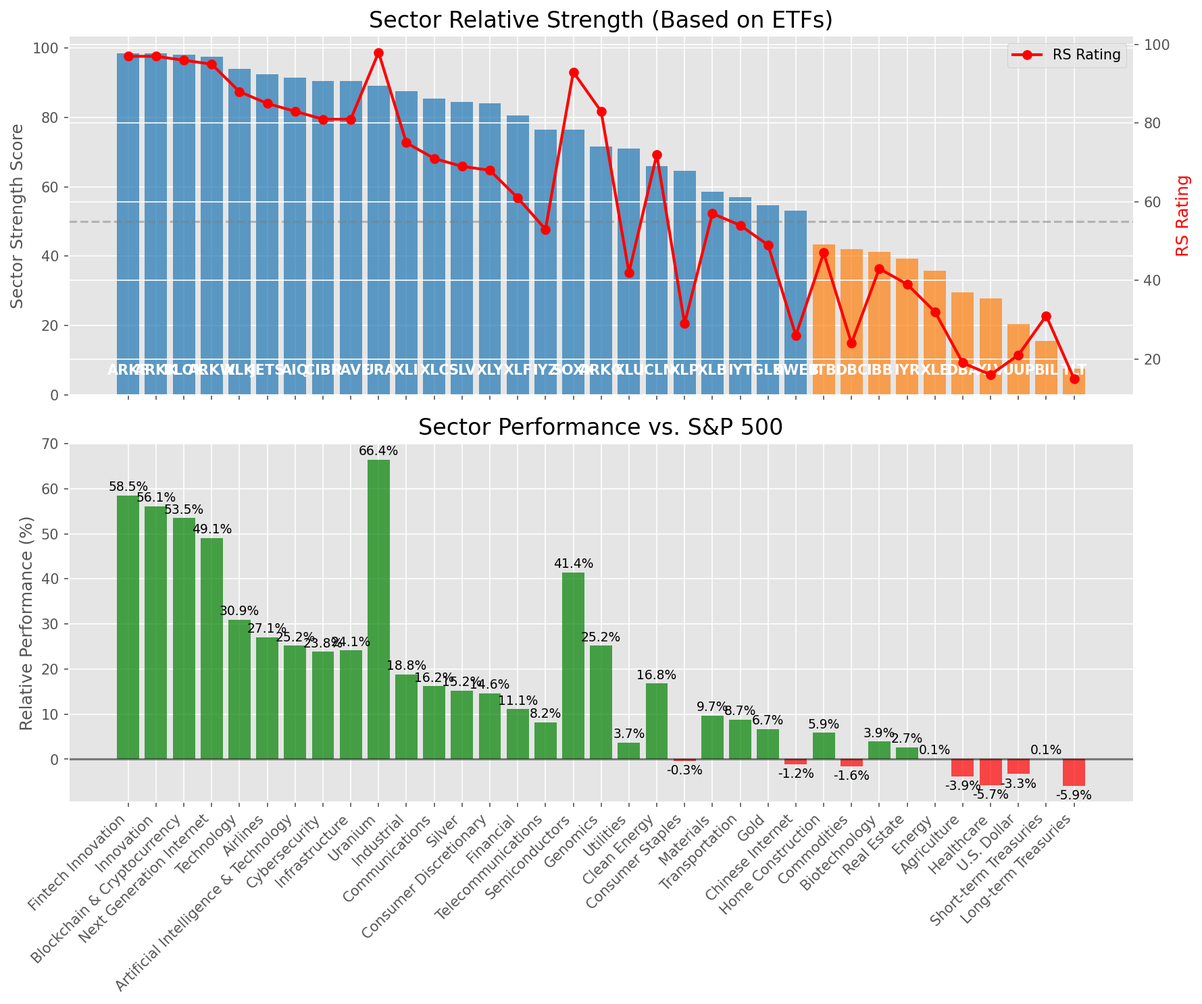
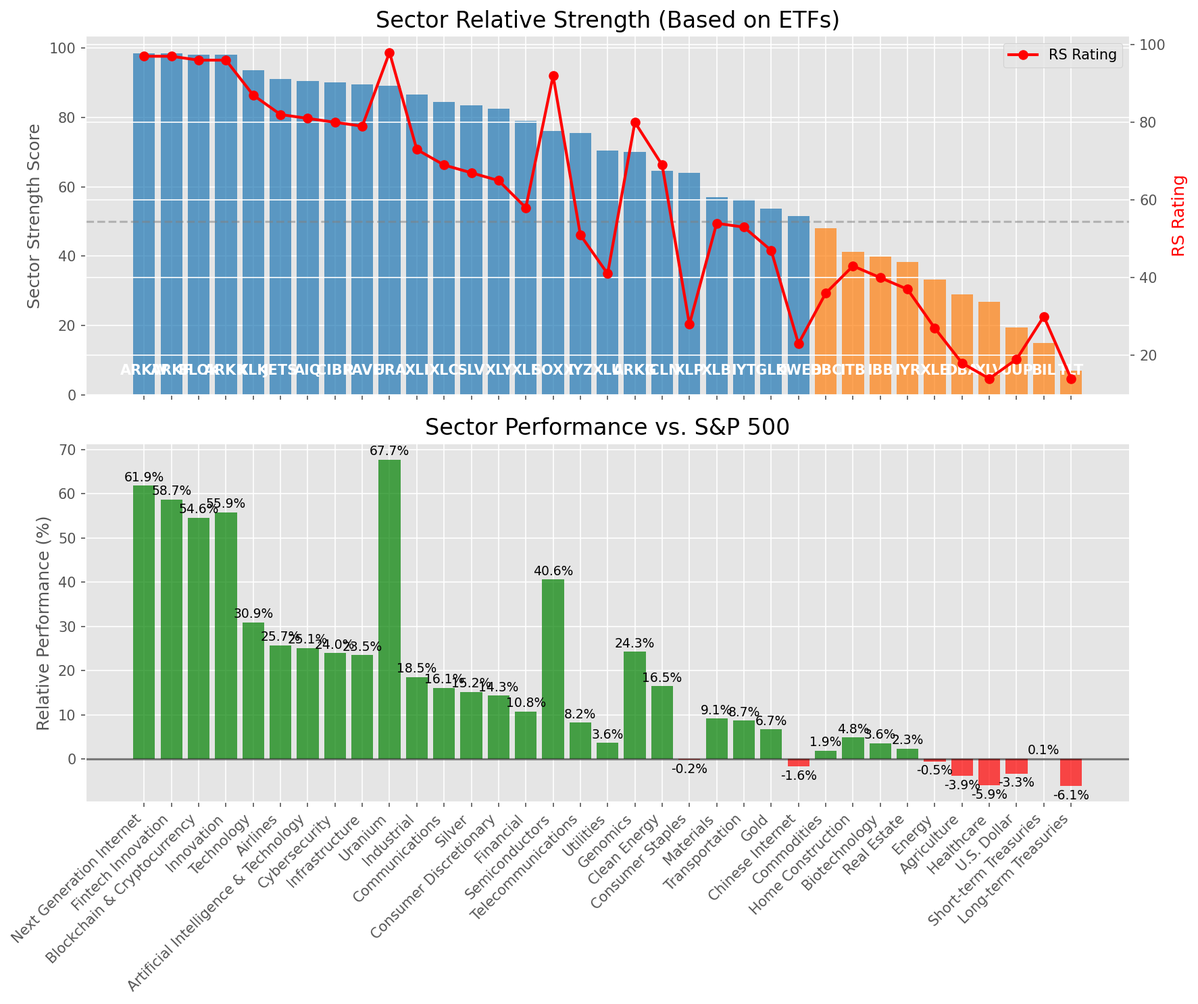
Add market report for 2025-07-07

diff --git a/oneil_relative_strength_report_2025-07-07.md b/oneil_relative_strength_report_2025-07-07.md
@@ -9,11 +9,11 @@
 | Metric | Value |
 |--------|-------|
 | **Market Valuation** | **Overvalued** |
-| **Current Ratio** | 10.24 |
+| **Current Ratio** | 10.22 |
 | **Historical Mean** | 9.40 |
 | **Standard Deviation** | 0.49 |
 | **Z-Score (StdDev from Mean)** | 1.81 |
-| **Total Market Cap** | $306.88 trillion |
+| **Total Market Cap** | $306.17 trillion |
 | **GDP** | $29.96 trillion |
 
 ## **Market Insights**
@@ -49,41 +49,41 @@ Based on William O'Neil's Relative Strength Methodology
 
 | ETF | Strength | RS Rating | Performance | Above Key MAs | Trend | Sector |
 |-----|----------|-----------|-------------|--------------|-------|--------|
-| [ARKF](https://www.tradingview.com/chart/?symbol=ARKF) | 98.5 | 97.0 | 58.54% | 10d ✓, 50d ✓, 200d ✓ | ↗ | Fintech Innovation |
-| [ARKK](https://www.tradingview.com/chart/?symbol=ARKK) | 98.5 | 97.0 | 56.09% | 10d ✓, 50d ✓, 200d ✓ | ↗ | Innovation |
-| [BLOK](https://www.tradingview.com/chart/?symbol=BLOK) | 98.0 | 96.0 | 53.46% | 10d ✓, 50d ✓, 200d ✓ | ↗ | Blockchain & Cryptocurrency |
-| [ARKW](https://www.tradingview.com/chart/?symbol=ARKW) | 97.5 | 95.0 | 49.06% | 10d ✓, 50d ✓, 200d ✓ | ↗ | Next Generation Internet |
-| [XLK](https://www.tradingview.com/chart/?symbol=XLK) | 94.0 | 88.0 | 30.93% | 10d ✓, 50d ✓, 200d ✓ | ↗ | Technology |
-| [JETS](https://www.tradingview.com/chart/?symbol=JETS) | 92.5 | 85.0 | 27.07% | 10d ✓, 50d ✓, 200d ✓ | ↗ | Airlines |
-| [AIQ](https://www.tradingview.com/chart/?symbol=AIQ) | 91.5 | 83.0 | 25.15% | 10d ✓, 50d ✓, 200d ✓ | ↗ | Artificial Intelligence & Technology |
-| [CIBR](https://www.tradingview.com/chart/?symbol=CIBR) | 90.5 | 81.0 | 23.82% | 10d ✓, 50d ✓, 200d ✓ | ↗ | Cybersecurity |
-| [PAVE](https://www.tradingview.com/chart/?symbol=PAVE) | 90.5 | 81.0 | 24.15% | 10d ✓, 50d ✓, 200d ✓ | ↗ | Infrastructure |
-| [URA](https://www.tradingview.com/chart/?symbol=URA) | 89.1 | 98.0 | 66.43% | 10d ✗, 50d ✓, 200d ✓ | ↗ | Uranium |
-| [XLI](https://www.tradingview.com/chart/?symbol=XLI) | 87.5 | 75.0 | 18.84% | 10d ✓, 50d ✓, 200d ✓ | ↗ | Industrial |
-| [XLC](https://www.tradingview.com/chart/?symbol=XLC) | 85.5 | 71.0 | 16.20% | 10d ✓, 50d ✓, 200d ✓ | ↗ | Communications |
-| [SLV](https://www.tradingview.com/chart/?symbol=SLV) | 84.5 | 69.0 | 15.21% | 10d ✓, 50d ✓, 200d ✓ | ↗ | Silver |
-| [XLY](https://www.tradingview.com/chart/?symbol=XLY) | 84.0 | 68.0 | 14.59% | 10d ✓, 50d ✓, 200d ✓ | ↗ | Consumer Discretionary |
-| [XLF](https://www.tradingview.com/chart/?symbol=XLF) | 80.5 | 61.0 | 11.10% | 10d ✓, 50d ✓, 200d ✓ | ↗ | Financial |
-| [IYZ](https://www.tradingview.com/chart/?symbol=IYZ) | 76.5 | 53.0 | 8.22% | 10d ✓, 50d ✓, 200d ✓ | ↗ | Telecommunications |
-| [SOXX](https://www.tradingview.com/chart/?symbol=SOXX) | 76.5 | 93.0 | 41.44% | 10d ✓, 50d ✓, 200d ✓ | ↘ | Semiconductors |
-| [ARKG](https://www.tradingview.com/chart/?symbol=ARKG) | 71.5 | 83.0 | 25.15% | 10d ✓, 50d ✓, 200d ✓ | ↘ | Genomics |
-| [XLU](https://www.tradingview.com/chart/?symbol=XLU) | 71.0 | 42.0 | 3.70% | 10d ✓, 50d ✓, 200d ✓ | ↗ | Utilities |
-| [ICLN](https://www.tradingview.com/chart/?symbol=ICLN) | 66.0 | 72.0 | 16.81% | 10d ✓, 50d ✓, 200d ✓ | ↘ | Clean Energy |
-| [XLP](https://www.tradingview.com/chart/?symbol=XLP) | 64.5 | 29.0 | -0.34% | 10d ✓, 50d ✓, 200d ✓ | ↗ | Consumer Staples |
-| [XLB](https://www.tradingview.com/chart/?symbol=XLB) | 58.5 | 57.0 | 9.68% | 10d ✓, 50d ✓, 200d ✓ | ↘ | Materials |
-| [IYT](https://www.tradingview.com/chart/?symbol=IYT) | 57.0 | 54.0 | 8.74% | 10d ✓, 50d ✓, 200d ✓ | ↘ | Transportation |
-| [GLD](https://www.tradingview.com/chart/?symbol=GLD) | 54.7 | 49.0 | 6.71% | 10d ✗, 50d ✗, 200d ✓ | ↗ | Gold |
-| [KWEB](https://www.tradingview.com/chart/?symbol=KWEB) | 53.1 | 26.0 | -1.17% | 10d ✗, 50d ✓, 200d ✓ | ↗ | Chinese Internet |
-| [ITB](https://www.tradingview.com/chart/?symbol=ITB) | 43.3 | 47.0 | 5.85% | 10d ✓, 50d ✓, 200d ✗ | ↘ | Home Construction |
-| [DBC](https://www.tradingview.com/chart/?symbol=DBC) | 42.0 | 24.0 | -1.63% | 10d ✓, 50d ✓, 200d ✓ | ↘ | Commodities |
-| [IBB](https://www.tradingview.com/chart/?symbol=IBB) | 41.3 | 43.0 | 3.92% | 10d ✓, 50d ✓, 200d ✗ | ↘ | Biotechnology |
-| [IYR](https://www.tradingview.com/chart/?symbol=IYR) | 39.3 | 39.0 | 2.68% | 10d ✓, 50d ✓, 200d ✗ | ↘ | Real Estate |
-| [XLE](https://www.tradingview.com/chart/?symbol=XLE) | 35.8 | 32.0 | 0.14% | 10d ✓, 50d ✓, 200d ✗ | ↘ | Energy |
-| [DBA](https://www.tradingview.com/chart/?symbol=DBA) | 29.5 | 19.0 | -3.86% | 10d ✗, 50d ✗, 200d ✗ | ↗ | Agriculture |
-| [XLV](https://www.tradingview.com/chart/?symbol=XLV) | 27.8 | 16.0 | -5.75% | 10d ✓, 50d ✓, 200d ✗ | ↘ | Healthcare |
-| [UUP](https://www.tradingview.com/chart/?symbol=UUP) | 20.4 | 21.0 | -3.29% | 10d ✓, 50d ✗, 200d ✗ | ↘ | U.S. Dollar |
-| [BIL](https://www.tradingview.com/chart/?symbol=BIL) | 15.5 | 31.0 | 0.05% | 10d ✗, 50d ✗, 200d ✗ | ↘ | Short-term Treasuries |
-| [TLT](https://www.tradingview.com/chart/?symbol=TLT) | 7.5 | 15.0 | -5.93% | 10d ✗, 50d ✗, 200d ✗ | ↘ | Long-term Treasuries |
+| [ARKW](https://www.tradingview.com/chart/?symbol=ARKW) | 98.5 | 97.0 | 61.89% | 10d ✓, 50d ✓, 200d ✓ | ↗ | Next Generation Internet |
+| [ARKF](https://www.tradingview.com/chart/?symbol=ARKF) | 98.5 | 97.0 | 58.72% | 10d ✓, 50d ✓, 200d ✓ | ↗ | Fintech Innovation |
+| [BLOK](https://www.tradingview.com/chart/?symbol=BLOK) | 98.0 | 96.0 | 54.61% | 10d ✓, 50d ✓, 200d ✓ | ↗ | Blockchain & Cryptocurrency |
+| [ARKK](https://www.tradingview.com/chart/?symbol=ARKK) | 98.0 | 96.0 | 55.85% | 10d ✓, 50d ✓, 200d ✓ | ↗ | Innovation |
+| [XLK](https://www.tradingview.com/chart/?symbol=XLK) | 93.5 | 87.0 | 30.93% | 10d ✓, 50d ✓, 200d ✓ | ↗ | Technology |
+| [JETS](https://www.tradingview.com/chart/?symbol=JETS) | 91.0 | 82.0 | 25.73% | 10d ✓, 50d ✓, 200d ✓ | ↗ | Airlines |
+| [AIQ](https://www.tradingview.com/chart/?symbol=AIQ) | 90.5 | 81.0 | 25.14% | 10d ✓, 50d ✓, 200d ✓ | ↗ | Artificial Intelligence & Technology |
+| [CIBR](https://www.tradingview.com/chart/?symbol=CIBR) | 90.0 | 80.0 | 24.01% | 10d ✓, 50d ✓, 200d ✓ | ↗ | Cybersecurity |
+| [PAVE](https://www.tradingview.com/chart/?symbol=PAVE) | 89.5 | 79.0 | 23.54% | 10d ✓, 50d ✓, 200d ✓ | ↗ | Infrastructure |
+| [URA](https://www.tradingview.com/chart/?symbol=URA) | 89.1 | 98.0 | 67.72% | 10d ✗, 50d ✓, 200d ✓ | ↗ | Uranium |
+| [XLI](https://www.tradingview.com/chart/?symbol=XLI) | 86.5 | 73.0 | 18.54% | 10d ✓, 50d ✓, 200d ✓ | ↗ | Industrial |
+| [XLC](https://www.tradingview.com/chart/?symbol=XLC) | 84.5 | 69.0 | 16.14% | 10d ✓, 50d ✓, 200d ✓ | ↗ | Communications |
+| [SLV](https://www.tradingview.com/chart/?symbol=SLV) | 83.5 | 67.0 | 15.16% | 10d ✓, 50d ✓, 200d ✓ | ↗ | Silver |
+| [XLY](https://www.tradingview.com/chart/?symbol=XLY) | 82.5 | 65.0 | 14.32% | 10d ✓, 50d ✓, 200d ✓ | ↗ | Consumer Discretionary |
+| [XLF](https://www.tradingview.com/chart/?symbol=XLF) | 79.0 | 58.0 | 10.79% | 10d ✓, 50d ✓, 200d ✓ | ↗ | Financial |
+| [SOXX](https://www.tradingview.com/chart/?symbol=SOXX) | 76.0 | 92.0 | 40.61% | 10d ✓, 50d ✓, 200d ✓ | ↘ | Semiconductors |
+| [IYZ](https://www.tradingview.com/chart/?symbol=IYZ) | 75.5 | 51.0 | 8.22% | 10d ✓, 50d ✓, 200d ✓ | ↗ | Telecommunications |
+| [XLU](https://www.tradingview.com/chart/?symbol=XLU) | 70.5 | 41.0 | 3.64% | 10d ✓, 50d ✓, 200d ✓ | ↗ | Utilities |
+| [ARKG](https://www.tradingview.com/chart/?symbol=ARKG) | 70.0 | 80.0 | 24.29% | 10d ✓, 50d ✓, 200d ✓ | ↘ | Genomics |
+| [ICLN](https://www.tradingview.com/chart/?symbol=ICLN) | 64.5 | 69.0 | 16.47% | 10d ✓, 50d ✓, 200d ✓ | ↘ | Clean Energy |
+| [XLP](https://www.tradingview.com/chart/?symbol=XLP) | 64.0 | 28.0 | -0.20% | 10d ✓, 50d ✓, 200d ✓ | ↗ | Consumer Staples |
+| [XLB](https://www.tradingview.com/chart/?symbol=XLB) | 57.0 | 54.0 | 9.15% | 10d ✓, 50d ✓, 200d ✓ | ↘ | Materials |
+| [IYT](https://www.tradingview.com/chart/?symbol=IYT) | 56.5 | 53.0 | 8.74% | 10d ✓, 50d ✓, 200d ✓ | ↘ | Transportation |
+| [GLD](https://www.tradingview.com/chart/?symbol=GLD) | 53.7 | 47.0 | 6.74% | 10d ✗, 50d ✗, 200d ✓ | ↗ | Gold |
+| [KWEB](https://www.tradingview.com/chart/?symbol=KWEB) | 51.6 | 23.0 | -1.62% | 10d ✗, 50d ✓, 200d ✓ | ↗ | Chinese Internet |
+| [DBC](https://www.tradingview.com/chart/?symbol=DBC) | 48.0 | 36.0 | 1.89% | 10d ✓, 50d ✓, 200d ✓ | ↘ | Commodities |
+| [ITB](https://www.tradingview.com/chart/?symbol=ITB) | 41.3 | 43.0 | 4.85% | 10d ✓, 50d ✓, 200d ✗ | ↘ | Home Construction |
+| [IBB](https://www.tradingview.com/chart/?symbol=IBB) | 39.8 | 40.0 | 3.55% | 10d ✓, 50d ✓, 200d ✗ | ↘ | Biotechnology |
+| [IYR](https://www.tradingview.com/chart/?symbol=IYR) | 38.3 | 37.0 | 2.34% | 10d ✓, 50d ✓, 200d ✗ | ↘ | Real Estate |
+| [XLE](https://www.tradingview.com/chart/?symbol=XLE) | 33.3 | 27.0 | -0.51% | 10d ✓, 50d ✓, 200d ✗ | ↘ | Energy |
+| [DBA](https://www.tradingview.com/chart/?symbol=DBA) | 29.0 | 18.0 | -3.86% | 10d ✗, 50d ✗, 200d ✗ | ↗ | Agriculture |
+| [XLV](https://www.tradingview.com/chart/?symbol=XLV) | 26.8 | 14.0 | -5.93% | 10d ✓, 50d ✓, 200d ✗ | ↘ | Healthcare |
+| [UUP](https://www.tradingview.com/chart/?symbol=UUP) | 19.4 | 19.0 | -3.26% | 10d ✓, 50d ✗, 200d ✗ | ↘ | U.S. Dollar |
+| [BIL](https://www.tradingview.com/chart/?symbol=BIL) | 15.0 | 30.0 | 0.05% | 10d ✗, 50d ✗, 200d ✗ | ↘ | Short-term Treasuries |
+| [TLT](https://www.tradingview.com/chart/?symbol=TLT) | 7.0 | 14.0 | -6.08% | 10d ✗, 50d ✗, 200d ✗ | ↘ | Long-term Treasuries |
 
 ### **Sector ETF Performance Interpretation**
 
@@ -98,139 +98,153 @@ This table shows the relative strength metrics for different market sectors base
 
 ### **Current Sector Leadership**
 
-The current market leadership is coming from the following sectors: **Fintech Innovation, Innovation, Blockchain & Cryptocurrency**.
+The current market leadership is coming from the following sectors: **Next Generation Internet, Fintech Innovation, Blockchain & Cryptocurrency**.
 
-The **Fintech Innovation** sector (represented by **ARKF**) is showing particularly strong relative strength with an RS rating of 97.0 and performance of 58.54% vs. the S&P 500. This sector is trading above its 10-day, 50-day, 200-day moving average(s). Investors should consider focusing on high RS stocks within these leading sectors for potential outperformance.
+The **Next Generation Internet** sector (represented by **ARKW**) is showing particularly strong relative strength with an RS rating of 97.0 and performance of 61.89% vs. the S&P 500. This sector is trading above its 10-day, 50-day, 200-day moving average(s). Investors should consider focusing on high RS stocks within these leading sectors for potential outperformance.
 
 ---
 
 ## **Buy Recommendations**
 
-The following 56 stocks show exceptional relative strength:
+The following 51 stocks show exceptional relative strength:
 
 | RS Rating | Buy Score | Current Price | Chart | Name | Ticker |
 |-----------|-----------|---------------|-------|------|--------|
-| 100 | 100 | $155.89 | [Chart](https://www.tradingview.com/chart/?symbol=CLS) | Celestica, Inc. | CLS |
-| 100 | 100 | $94.20 | [Chart](https://www.tradingview.com/chart/?symbol=HOOD) | Robinhood Markets, Inc. Class A Common Stock | HOOD |
-| 100 | 100 | $280.51 | [Chart](https://www.tradingview.com/chart/?symbol=DAVE) | Dave Inc. Class A Common Stock | DAVE |
-| 100 | 100 | $174.40 | [Chart](https://www.tradingview.com/chart/?symbol=SEZL) | Sezzle Inc. Common Stock | SEZL |
-| 99 | 100 | $192.30 | [Chart](https://www.tradingview.com/chart/?symbol=NET) | Cloudflare, Inc. Class A common stock, par value $0.001 per share | NET |
-| 99 | 100 | $333.64 | [Chart](https://www.tradingview.com/chart/?symbol=RCL) | Royal Caribbean Group | RCL |
-| 99 | 100 | $105.94 | [Chart](https://www.tradingview.com/chart/?symbol=RBLX) | Roblox Corporation | RBLX |
+| 100 | 100 | $156.69 | [Chart](https://www.tradingview.com/chart/?symbol=CLS) | Celestica, Inc. | CLS |
+| 100 | 100 | $181.28 | [Chart](https://www.tradingview.com/chart/?symbol=LEU) | Centrus Energy Corp. | LEU |
+| 100 | 100 | $94.19 | [Chart](https://www.tradingview.com/chart/?symbol=HOOD) | Robinhood Markets, Inc. Class A Common Stock | HOOD |
+| 100 | 100 | $279.43 | [Chart](https://www.tradingview.com/chart/?symbol=DAVE) | Dave Inc. Class A Common Stock | DAVE |
+| 100 | 100 | $177.49 | [Chart](https://www.tradingview.com/chart/?symbol=SEZL) | Sezzle Inc. Common Stock | SEZL |
+| 99 | 100 | $76.01 | [Chart](https://www.tradingview.com/chart/?symbol=ODD) | ODDITY Tech Ltd. Class A Ordinary Shares | ODD |
+| 99 | 100 | $193.04 | [Chart](https://www.tradingview.com/chart/?symbol=NET) | Cloudflare, Inc. Class A common stock, par value $0.001 per share | NET |
+| 99 | 100 | $106.70 | [Chart](https://www.tradingview.com/chart/?symbol=RBLX) | Roblox Corporation | RBLX |
 | 99 | 100 | $149.20 | [Chart](https://www.tradingview.com/chart/?symbol=LMB) | Limbach Holdings, Inc Common Stock | LMB |
-| 99 | 100 | $36.65 | [Chart](https://www.tradingview.com/chart/?symbol=GRPN) | Groupon, Inc.Common Stock | GRPN |
-| 99 | 100 | $352.57 | [Chart](https://www.tradingview.com/chart/?symbol=CVNA) | Carvana Co. | CVNA |
-| 98 | 100 | $521.84 | [Chart](https://www.tradingview.com/chart/?symbol=GEV) | GE Vernova Inc. | GEV |
-| 97 | 100 | $71.62 | [Chart](https://www.tradingview.com/chart/?symbol=URBN) | Urban Outfitters Inc | URBN |
-| 97 | 100 | $75.96 | [Chart](https://www.tradingview.com/chart/?symbol=ODD) | ODDITY Tech Ltd. Class A Ordinary Shares | ODD |
-| 97 | 100 | $313.71 | [Chart](https://www.tradingview.com/chart/?symbol=ZS) | Zscaler, Inc. Common Stock | ZS |
-| 97 | 100 | $43.92 | [Chart](https://www.tradingview.com/chart/?symbol=FARO) | Faro Technologies Inc | FARO |
-| 97 | 100 | $50.40 | [Chart](https://www.tradingview.com/chart/?symbol=ARKF) | ARK Fintech Innovation ETF | ARKF |
-| 96 | 100 | $50.25 | [Chart](https://www.tradingview.com/chart/?symbol=REVG) | REV Group, Inc. | REVG |
-| 96 | 100 | $89.12 | [Chart](https://www.tradingview.com/chart/?symbol=RBRK) | Rubrik, Inc. | RBRK |
-| 96 | 100 | $38.28 | [Chart](https://www.tradingview.com/chart/?symbol=AS) | Amer Sports, Inc. | AS |
-| 95 | 100 | $45.19 | [Chart](https://www.tradingview.com/chart/?symbol=KTOS) | Kratos Defense & Security Solutions, Inc. | KTOS |
-| 95 | 100 | $48.77 | [Chart](https://www.tradingview.com/chart/?symbol=INOD) | Innodata Inc. | INOD |
-| 94 | 100 | $503.13 | [Chart](https://www.tradingview.com/chart/?symbol=CRWD) | CrowdStrike Holdings, Inc. Class A Common Stock | CRWD |
-| 94 | 100 | $181.85 | [Chart](https://www.tradingview.com/chart/?symbol=HWM) | Howmet Aerospace Inc. | HWM |
-| 94 | 100 | $58.19 | [Chart](https://www.tradingview.com/chart/?symbol=IBKR) | Interactive Brokers Group, Inc. Class A Common Stock | IBKR |
-| 93 | 100 | $17.76 | [Chart](https://www.tradingview.com/chart/?symbol=DAN) | Dana Incorporated | DAN |
-| 93 | 100 | $795.48 | [Chart](https://www.tradingview.com/chart/?symbol=AXON) | Axon Enterprise, Inc. Common Stock | AXON |
-| 93 | 100 | $46.62 | [Chart](https://www.tradingview.com/chart/?symbol=DRS) | Leonardo DRS, Inc. Common Stock | DRS |
-| 93 | 100 | $21.37 | [Chart](https://www.tradingview.com/chart/?symbol=MAG) | MAG Silver Corp. | MAG |
-| 93 | 100 | $43.60 | [Chart](https://www.tradingview.com/chart/?symbol=KD) | Kyndryl Holdings, Inc. | KD |
-| 92 | 100 | $91.31 | [Chart](https://www.tradingview.com/chart/?symbol=TPR) | Tapestry, Inc. Common Stock | TPR |
-| 90 | 100 | $28.30 | [Chart](https://www.tradingview.com/chart/?symbol=SRAD) | Sportradar Group AG Class A Ordinary Shares | SRAD |
-| 90 | 100 | $52.89 | [Chart](https://www.tradingview.com/chart/?symbol=BBW) | Build-A-Bear Workshop, Inc. | BBW |
-| 89 | 100 | $30.60 | [Chart](https://www.tradingview.com/chart/?symbol=HODL) | VanEck Bitcoin ETF | HODL |
-| 89 | 99 | $61.46 | [Chart](https://www.tradingview.com/chart/?symbol=IBIT) | iShares Bitcoin Trust ETF | IBIT |
-| 89 | 99 | $102.34 | [Chart](https://www.tradingview.com/chart/?symbol=SANM) | Sanmina  Corp | SANM |
-| 89 | 99 | $252.34 | [Chart](https://www.tradingview.com/chart/?symbol=WWD) | Woodward, Inc. | WWD |
-| 86 | 99 | $18.32 | [Chart](https://www.tradingview.com/chart/?symbol=BCS) | Barclays PLC | BCS |
-| 89 | 98 | $66.26 | [Chart](https://www.tradingview.com/chart/?symbol=RYTM) | Rhythm Pharmaceuticals, Inc. Common Stock | RYTM |
-| 85 | 96 | $188.00 | [Chart](https://www.tradingview.com/chart/?symbol=ITA) | iShares U.S. Aerospace & Defense ETF | ITA |
-| 85 | 96 | $25.80 | [Chart](https://www.tradingview.com/chart/?symbol=KAR) | OPENLANE, Inc | KAR |
-| 85 | 95 | $46.96 | [Chart](https://www.tradingview.com/chart/?symbol=AU) | AngloGold Ashanti plc | AU |
-| 83 | 95 | $59.65 | [Chart](https://www.tradingview.com/chart/?symbol=SHLD) | Global X Defense Tech ETF | SHLD |
-| 84 | 94 | $112.08 | [Chart](https://www.tradingview.com/chart/?symbol=SPMO) | Invesco S&P 500 Momentum ETF | SPMO |
-| 84 | 94 | $82.98 | [Chart](https://www.tradingview.com/chart/?symbol=WFC) | Wells Fargo & Co. | WFC |
-| 83 | 94 | $71.71 | [Chart](https://www.tradingview.com/chart/?symbol=ULS) | UL Solutions Inc. | ULS |
-| 83 | 94 | $284.29 | [Chart](https://www.tradingview.com/chart/?symbol=VEEV) | Veeva Systems Inc. | VEEV |
-| 83 | 94 | $77.14 | [Chart](https://www.tradingview.com/chart/?symbol=CTVA) | Corteva, Inc. Common Stock | CTVA |
-| 84 | 93 | $48.86 | [Chart](https://www.tradingview.com/chart/?symbol=SIL) | Global X Silver Miners ETF (NEW) | SIL |
-| 84 | 93 | $123.33 | [Chart](https://www.tradingview.com/chart/?symbol=FUTU) | Futu Holdings Limited American Depositary Shares | FUTU |
-| 82 | 93 | $132.85 | [Chart](https://www.tradingview.com/chart/?symbol=NTES) | NetEase, inc. | NTES |
-| 81 | 93 | $75.86 | [Chart](https://www.tradingview.com/chart/?symbol=CIBR) | First Trust Exchange-Traded Fund II First Trust NASDAQ Cybersecurity ETF | CIBR |
-| 81 | 93 | $403.87 | [Chart](https://www.tradingview.com/chart/?symbol=CYBR) | CyberArk Software Ltd. | CYBR |
-| 82 | 92 | $18.86 | [Chart](https://www.tradingview.com/chart/?symbol=AVPT) | AvePoint, Inc. Class A Common Stock | AVPT |
-| 82 | 92 | $24.17 | [Chart](https://www.tradingview.com/chart/?symbol=TFPM) | Triple Flag Precious Metals Corp. | TFPM |
-| 81 | 91 | $35.13 | [Chart](https://www.tradingview.com/chart/?symbol=ATAT) | Atour Lifestyle Holdings Limited American Depositary Shares | ATAT |
-| 80 | 90 | $252.69 | [Chart](https://www.tradingview.com/chart/?symbol=WTS) | Watts Water Technologies, Inc. Class A | WTS |
+| 99 | 100 | $36.89 | [Chart](https://www.tradingview.com/chart/?symbol=GRPN) | Groupon, Inc.Common Stock | GRPN |
+| 99 | 100 | $351.38 | [Chart](https://www.tradingview.com/chart/?symbol=CVNA) | Carvana Co. | CVNA |
+| 98 | 100 | $525.32 | [Chart](https://www.tradingview.com/chart/?symbol=GEV) | GE Vernova Inc. | GEV |
+| 98 | 100 | $333.00 | [Chart](https://www.tradingview.com/chart/?symbol=RCL) | Royal Caribbean Group | RCL |
+| 97 | 100 | $72.04 | [Chart](https://www.tradingview.com/chart/?symbol=URBN) | Urban Outfitters Inc | URBN |
+| 97 | 100 | $315.07 | [Chart](https://www.tradingview.com/chart/?symbol=ZS) | Zscaler, Inc. Common Stock | ZS |
+| 97 | 100 | $50.46 | [Chart](https://www.tradingview.com/chart/?symbol=ARKF) | ARK Fintech Innovation ETF | ARKF |
+| 96 | 100 | $43.96 | [Chart](https://www.tradingview.com/chart/?symbol=FARO) | Faro Technologies Inc | FARO |
+| 96 | 100 | $90.50 | [Chart](https://www.tradingview.com/chart/?symbol=RBRK) | Rubrik, Inc. | RBRK |
+| 96 | 100 | $38.57 | [Chart](https://www.tradingview.com/chart/?symbol=AS) | Amer Sports, Inc. | AS |
+| 95 | 100 | $45.45 | [Chart](https://www.tradingview.com/chart/?symbol=KTOS) | Kratos Defense & Security Solutions, Inc. | KTOS |
+| 95 | 100 | $49.57 | [Chart](https://www.tradingview.com/chart/?symbol=INOD) | Innodata Inc. | INOD |
+| 94 | 100 | $503.76 | [Chart](https://www.tradingview.com/chart/?symbol=CRWD) | CrowdStrike Holdings, Inc. Class A Common Stock | CRWD |
+| 94 | 100 | $181.01 | [Chart](https://www.tradingview.com/chart/?symbol=HWM) | Howmet Aerospace Inc. | HWM |
+| 94 | 100 | $253.18 | [Chart](https://www.tradingview.com/chart/?symbol=WWD) | Woodward, Inc. | WWD |
+| 94 | 100 | $58.37 | [Chart](https://www.tradingview.com/chart/?symbol=IBKR) | Interactive Brokers Group, Inc. Class A Common Stock | IBKR |
+| 93 | 100 | $46.68 | [Chart](https://www.tradingview.com/chart/?symbol=DRS) | Leonardo DRS, Inc. Common Stock | DRS |
+| 92 | 100 | $17.55 | [Chart](https://www.tradingview.com/chart/?symbol=DAN) | Dana Incorporated | DAN |
+| 92 | 100 | $21.45 | [Chart](https://www.tradingview.com/chart/?symbol=MAG) | MAG Silver Corp. | MAG |
+| 92 | 100 | $91.62 | [Chart](https://www.tradingview.com/chart/?symbol=TPR) | Tapestry, Inc. Common Stock | TPR |
+| 91 | 100 | $43.29 | [Chart](https://www.tradingview.com/chart/?symbol=KD) | Kyndryl Holdings, Inc. | KD |
+| 90 | 100 | $25.70 | [Chart](https://www.tradingview.com/chart/?symbol=KAR) | OPENLANE, Inc | KAR |
+| 89 | 100 | $28.23 | [Chart](https://www.tradingview.com/chart/?symbol=SRAD) | Sportradar Group AG Class A Ordinary Shares | SRAD |
+| 89 | 99 | $52.89 | [Chart](https://www.tradingview.com/chart/?symbol=BBW) | Build-A-Bear Workshop, Inc. | BBW |
+| 88 | 99 | $61.68 | [Chart](https://www.tradingview.com/chart/?symbol=IBIT) | iShares Bitcoin Trust ETF | IBIT |
+| 88 | 99 | $30.69 | [Chart](https://www.tradingview.com/chart/?symbol=HODL) | VanEck Bitcoin ETF | HODL |
+| 89 | 98 | $66.42 | [Chart](https://www.tradingview.com/chart/?symbol=RYTM) | Rhythm Pharmaceuticals, Inc. Common Stock | RYTM |
+| 84 | 97 | $18.31 | [Chart](https://www.tradingview.com/chart/?symbol=BCS) | Barclays PLC | BCS |
+| 84 | 97 | $66.26 | [Chart](https://www.tradingview.com/chart/?symbol=CHEF) | The Chef's Warehouse Inc | CHEF |
+| 83 | 96 | $29.87 | [Chart](https://www.tradingview.com/chart/?symbol=CAE) | CAE INC | CAE |
+| 84 | 95 | $187.96 | [Chart](https://www.tradingview.com/chart/?symbol=ITA) | iShares U.S. Aerospace & Defense ETF | ITA |
+| 84 | 95 | $284.04 | [Chart](https://www.tradingview.com/chart/?symbol=VEEV) | Veeva Systems Inc. | VEEV |
+| 84 | 95 | $133.65 | [Chart](https://www.tradingview.com/chart/?symbol=NTES) | NetEase, inc. | NTES |
+| 83 | 95 | $59.82 | [Chart](https://www.tradingview.com/chart/?symbol=SHLD) | Global X Defense Tech ETF | SHLD |
+| 84 | 94 | $47.16 | [Chart](https://www.tradingview.com/chart/?symbol=AU) | AngloGold Ashanti plc | AU |
+| 84 | 93 | $49.20 | [Chart](https://www.tradingview.com/chart/?symbol=SIL) | Global X Silver Miners ETF (NEW) | SIL |
+| 84 | 93 | $124.09 | [Chart](https://www.tradingview.com/chart/?symbol=FUTU) | Futu Holdings Limited American Depositary Shares | FUTU |
+| 83 | 93 | $112.08 | [Chart](https://www.tradingview.com/chart/?symbol=SPMO) | Invesco S&P 500 Momentum ETF | SPMO |
+| 82 | 93 | $76.91 | [Chart](https://www.tradingview.com/chart/?symbol=CTVA) | Corteva, Inc. Common Stock | CTVA |
+| 82 | 92 | $82.57 | [Chart](https://www.tradingview.com/chart/?symbol=WFC) | Wells Fargo & Co. | WFC |
+| 80 | 92 | $75.98 | [Chart](https://www.tradingview.com/chart/?symbol=CIBR) | First Trust Exchange-Traded Fund II First Trust NASDAQ Cybersecurity ETF | CIBR |
+| 80 | 92 | $407.66 | [Chart](https://www.tradingview.com/chart/?symbol=CYBR) | CyberArk Software Ltd. | CYBR |
 
 ---
 
 
 ## **Sell Recommendations**
 
-The following 55 stocks show deteriorating relative strength:
+The following 74 stocks show deteriorating relative strength:
 
 | RS Rating | Sell Score | Current Price | Chart | Name | Ticker |
 |-----------|------------|---------------|-------|------|--------|
 | 1 | 100 | $10.09 | [Chart](https://www.tradingview.com/chart/?symbol=HIBS) | Direxion Daily S&P 500 High Beta Bear 3X Shares | HIBS |
-| 1 | 100 | $14.37 | [Chart](https://www.tradingview.com/chart/?symbol=NVDS) | Investment Managers Series Trust II Tradr 1.5X Short NVDA Daily ETF | NVDS |
-| 1 | 100 | $25.99 | [Chart](https://www.tradingview.com/chart/?symbol=TECS) | Direxion Daily Technology Bear 3x Shares | TECS |
-| 1 | 100 | $25.26 | [Chart](https://www.tradingview.com/chart/?symbol=QID) | ProShares UltraShort QQQ | QID |
-| 2 | 100 | $16.43 | [Chart](https://www.tradingview.com/chart/?symbol=SDS) | ProShares UltraShort S&P500 | SDS |
-| 2 | 100 | $19.55 | [Chart](https://www.tradingview.com/chart/?symbol=BITI) | ProShares Short Bitcoin ETF | BITI |
-| 2 | 100 | $39.99 | [Chart](https://www.tradingview.com/chart/?symbol=SDOW) | ProShares UltraPro Short Dow 30 | SDOW |
+| 1 | 100 | $14.41 | [Chart](https://www.tradingview.com/chart/?symbol=NVDS) | Investment Managers Series Trust II Tradr 1.5X Short NVDA Daily ETF | NVDS |
+| 1 | 100 | $26.03 | [Chart](https://www.tradingview.com/chart/?symbol=TECS) | Direxion Daily Technology Bear 3x Shares | TECS |
+| 1 | 100 | $25.25 | [Chart](https://www.tradingview.com/chart/?symbol=QID) | ProShares UltraShort QQQ | QID |
+| 2 | 100 | $16.47 | [Chart](https://www.tradingview.com/chart/?symbol=SDS) | ProShares UltraShort S&P500 | SDS |
+| 2 | 100 | $19.49 | [Chart](https://www.tradingview.com/chart/?symbol=BITI) | ProShares Short Bitcoin ETF | BITI |
+| 2 | 100 | $40.22 | [Chart](https://www.tradingview.com/chart/?symbol=SDOW) | ProShares UltraPro Short Dow 30 | SDOW |
 | 2 | 100 | $10.20 | [Chart](https://www.tradingview.com/chart/?symbol=HPK) | HighPeak Energy, Inc. Common Stock | HPK |
-| 2 | 100 | $24.92 | [Chart](https://www.tradingview.com/chart/?symbol=CRTO) | Criteo S.A. | CRTO |
-| 3 | 100 | $35.25 | [Chart](https://www.tradingview.com/chart/?symbol=SARK) | Investment Managers Series Trust II Tradr 1X Short Innovation Daily ETF | SARK |
-| 3 | 100 | $43.52 | [Chart](https://www.tradingview.com/chart/?symbol=LINE) | Lineage, Inc. Common Stock | LINE |
-| 4 | 100 | $80.42 | [Chart](https://www.tradingview.com/chart/?symbol=LNTH) | Lantheus Holdings, Inc | LNTH |
-| 4 | 100 | $33.63 | [Chart](https://www.tradingview.com/chart/?symbol=PSQ) | ProShares Short QQQ | PSQ |
-| 4 | 100 | $23.66 | [Chart](https://www.tradingview.com/chart/?symbol=DXD) | ProShares UltraShort Dow 30 | DXD |
-| 4 | 100 | $49.82 | [Chart](https://www.tradingview.com/chart/?symbol=ASGN) | ASGN Incorporated | ASGN |
-| 5 | 100 | $93.50 | [Chart](https://www.tradingview.com/chart/?symbol=ZBH) | Zimmer Biomet Holdings, Inc. | ZBH |
-| 5 | 100 | $33.50 | [Chart](https://www.tradingview.com/chart/?symbol=CYTK) | Cytokinetics Inc. | CYTK |
-| 6 | 100 | $39.43 | [Chart](https://www.tradingview.com/chart/?symbol=SH) | ProShares Short S&P500 | SH |
-| 6 | 100 | $23.46 | [Chart](https://www.tradingview.com/chart/?symbol=AMPH) | Amphastar Pharmaceuticals, Inc. | AMPH |
-| 7 | 100 | $52.30 | [Chart](https://www.tradingview.com/chart/?symbol=LW) | Lamb Weston Holdings, Inc. | LW |
-| 9 | 100 | $84.64 | [Chart](https://www.tradingview.com/chart/?symbol=KSPI) | Joint Stock Company Kaspi.kz American Depository Shares | KSPI |
-| 10 | 100 | $131.59 | [Chart](https://www.tradingview.com/chart/?symbol=KMB) | Kimberly-Clark Corp. | KMB |
-| 10 | 100 | $25.19 | [Chart](https://www.tradingview.com/chart/?symbol=DOG) | ProShares Short Dow30 | DOG |
-| 13 | 100 | $12.12 | [Chart](https://www.tradingview.com/chart/?symbol=LBRT) | Liberty Energy Inc. | LBRT |
-| 13 | 100 | $47.62 | [Chart](https://www.tradingview.com/chart/?symbol=KBR) | KBR, Inc. | KBR |
-| 14 | 100 | $86.33 | [Chart](https://www.tradingview.com/chart/?symbol=SIGI) | Selective Insurance Group | SIGI |
-| 14 | 99 | $14.04 | [Chart](https://www.tradingview.com/chart/?symbol=OCSL) | Oaktree Specialty Lending Corporation | OCSL |
-| 8 | 98 | $48.44 | [Chart](https://www.tradingview.com/chart/?symbol=SNY) | Sanofi American Depositary Shares (Each representing one-half of one ordinary share) | SNY |
-| 12 | 98 | $62.29 | [Chart](https://www.tradingview.com/chart/?symbol=ELS) | Equity Lifestyle Properties, Inc. | ELS |
-| 7 | 97 | $80.62 | [Chart](https://www.tradingview.com/chart/?symbol=OKE) | Oneok, Inc. | OKE |
+| 2 | 100 | $24.96 | [Chart](https://www.tradingview.com/chart/?symbol=CRTO) | Criteo S.A. | CRTO |
+| 2 | 100 | $42.81 | [Chart](https://www.tradingview.com/chart/?symbol=LINE) | Lineage, Inc. Common Stock | LINE |
+| 3 | 100 | $33.64 | [Chart](https://www.tradingview.com/chart/?symbol=PSQ) | ProShares Short QQQ | PSQ |
+| 3 | 100 | $23.75 | [Chart](https://www.tradingview.com/chart/?symbol=DXD) | ProShares UltraShort Dow 30 | DXD |
+| 3 | 100 | $35.70 | [Chart](https://www.tradingview.com/chart/?symbol=SARK) | Investment Managers Series Trust II Tradr 1X Short Innovation Daily ETF | SARK |
+| 4 | 100 | $78.98 | [Chart](https://www.tradingview.com/chart/?symbol=LNTH) | Lantheus Holdings, Inc | LNTH |
+| 4 | 100 | $93.16 | [Chart](https://www.tradingview.com/chart/?symbol=ZBH) | Zimmer Biomet Holdings, Inc. | ZBH |
+| 4 | 100 | $50.32 | [Chart](https://www.tradingview.com/chart/?symbol=ASGN) | ASGN Incorporated | ASGN |
+| 4 | 100 | $33.41 | [Chart](https://www.tradingview.com/chart/?symbol=CYTK) | Cytokinetics Inc. | CYTK |
+| 5 | 100 | $39.47 | [Chart](https://www.tradingview.com/chart/?symbol=SH) | ProShares Short S&P500 | SH |
+| 5 | 100 | $10.29 | [Chart](https://www.tradingview.com/chart/?symbol=LBTYK) | Liberty Global Ltd. Class C Common Shares | LBTYK |
+| 6 | 100 | $23.44 | [Chart](https://www.tradingview.com/chart/?symbol=AMPH) | Amphastar Pharmaceuticals, Inc. | AMPH |
+| 7 | 100 | $51.97 | [Chart](https://www.tradingview.com/chart/?symbol=LW) | Lamb Weston Holdings, Inc. | LW |
+| 8 | 100 | $84.64 | [Chart](https://www.tradingview.com/chart/?symbol=KSPI) | Joint Stock Company Kaspi.kz American Depository Shares | KSPI |
+| 9 | 100 | $11.84 | [Chart](https://www.tradingview.com/chart/?symbol=LBRT) | Liberty Energy Inc. | LBRT |
+| 9 | 100 | $25.23 | [Chart](https://www.tradingview.com/chart/?symbol=DOG) | ProShares Short Dow30 | DOG |
+| 10 | 100 | $132.06 | [Chart](https://www.tradingview.com/chart/?symbol=KMB) | Kimberly-Clark Corp. | KMB |
+| 11 | 100 | $53.22 | [Chart](https://www.tradingview.com/chart/?symbol=CNMD) | CONMED Corporation | CNMD |
+| 12 | 100 | $47.45 | [Chart](https://www.tradingview.com/chart/?symbol=KBR) | KBR, Inc. | KBR |
+| 13 | 100 | $86.33 | [Chart](https://www.tradingview.com/chart/?symbol=SIGI) | Selective Insurance Group | SIGI |
+| 13 | 100 | $14.02 | [Chart](https://www.tradingview.com/chart/?symbol=OCSL) | Oaktree Specialty Lending Corporation | OCSL |
+| 14 | 100 | $17.93 | [Chart](https://www.tradingview.com/chart/?symbol=ZTO) | ZTO Express (Cayman) Inc. American Depositary Shares, each representing one Class A ordinary share | ZTO |
+| 10 | 99 | $62.01 | [Chart](https://www.tradingview.com/chart/?symbol=ELS) | Equity Lifestyle Properties, Inc. | ELS |
+| 7 | 98 | $91.95 | [Chart](https://www.tradingview.com/chart/?symbol=GLOB) | GLOBANT S.A. | GLOB |
+| 8 | 98 | $48.36 | [Chart](https://www.tradingview.com/chart/?symbol=SNY) | Sanofi American Depositary Shares (Each representing one-half of one ordinary share) | SNY |
+| 11 | 98 | $29.85 | [Chart](https://www.tradingview.com/chart/?symbol=QDEL) | QuidelOrtho Corporation Common Stock | QDEL |
+| 6 | 97 | $80.10 | [Chart](https://www.tradingview.com/chart/?symbol=OKE) | Oneok, Inc. | OKE |
+| 12 | 97 | $41.01 | [Chart](https://www.tradingview.com/chart/?symbol=POR) | Portland General Electric Company | POR |
 | 5 | 96 | $24.77 | [Chart](https://www.tradingview.com/chart/?symbol=DRV) | Direxion Daily Real Estate Bear 3X Shares | DRV |
-| 9 | 96 | $93.75 | [Chart](https://www.tradingview.com/chart/?symbol=GLOB) | GLOBANT S.A. | GLOB |
-| 9 | 95 | $37.26 | [Chart](https://www.tradingview.com/chart/?symbol=VNOM) | Viper Energy, Inc. Class A Common Stock | VNOM |
-| 12 | 92 | $104.80 | [Chart](https://www.tradingview.com/chart/?symbol=PDD) | PDD Holdings Inc. American Depositary Shares | PDD |
-| 15 | 92 | $86.41 | [Chart](https://www.tradingview.com/chart/?symbol=TLT) | iShares 20+ Year Treasury Bond ETF | TLT |
-| 20 | 92 | $104.00 | [Chart](https://www.tradingview.com/chart/?symbol=DEO) | Diageo plc | DEO |
-| 13 | 90 | $38.95 | [Chart](https://www.tradingview.com/chart/?symbol=LKQ) | LKQ Corporation | LKQ |
-| 22 | 90 | $767.04 | [Chart](https://www.tradingview.com/chart/?symbol=LLY) | Eli Lilly & Co. | LLY |
-| 17 | 89 | $291.86 | [Chart](https://www.tradingview.com/chart/?symbol=UTHR) | United Therapeutics Corp | UTHR |
-| 16 | 88 | $41.34 | [Chart](https://www.tradingview.com/chart/?symbol=UDR) | UDR, Inc. | UDR |
-| 16 | 88 | $19.17 | [Chart](https://www.tradingview.com/chart/?symbol=MSDL) | Morgan Stanley Direct Lending Fund | MSDL |
-| 17 | 86 | $36.80 | [Chart](https://www.tradingview.com/chart/?symbol=OHI) | Omega Healthcare Investors Inc. | OHI |
-| 18 | 86 | $32.55 | [Chart](https://www.tradingview.com/chart/?symbol=INVH) | Invitation Homes Inc. Common Stock | INVH |
-| 22 | 85 | $127.47 | [Chart](https://www.tradingview.com/chart/?symbol=RGEN) | Repligen Corp | RGEN |
-| 23 | 85 | $29.17 | [Chart](https://www.tradingview.com/chart/?symbol=RNA) | Avidity Biosciences, Inc. Common Stock | RNA |
-| 24 | 85 | $61.50 | [Chart](https://www.tradingview.com/chart/?symbol=UL) | Unilever plc | UL |
-| 20 | 83 | $35.78 | [Chart](https://www.tradingview.com/chart/?symbol=AMH) | AMERICAN HOMES 4 RENT | AMH |
-| 20 | 83 | $57.27 | [Chart](https://www.tradingview.com/chart/?symbol=DAY) | Dayforce, Inc. | DAY |
-| 26 | 82 | $197.79 | [Chart](https://www.tradingview.com/chart/?symbol=RGA) | Reinsurance Group of America, Incorporated | RGA |
-| 25 | 78 | $69.68 | [Chart](https://www.tradingview.com/chart/?symbol=BRC) | Brady Corporation | BRC |
-| 30 | 77 | $22.84 | [Chart](https://www.tradingview.com/chart/?symbol=IBTG) | iShares iBonds Dec 2026 Term Treasury ETF | IBTG |
-| 27 | 76 | $21.70 | [Chart](https://www.tradingview.com/chart/?symbol=TUA) | Simplify Short Term Treasury Futures Strategy ETF | TUA |
-| 29 | 74 | $29.14 | [Chart](https://www.tradingview.com/chart/?symbol=SPTS) | SPDR Portfolio Short Term Treasury ETF | SPTS |
-| 34 | 74 | $303.61 | [Chart](https://www.tradingview.com/chart/?symbol=ACN) | Accenture PLC | ACN |
-| 31 | 70 | $110.12 | [Chart](https://www.tradingview.com/chart/?symbol=SHV) | iShares Short Treasury Bond ETF | SHV |
+| 16 | 96 | $52.88 | [Chart](https://www.tradingview.com/chart/?symbol=KBH) | KB Home | KBH |
+| 8 | 94 | $36.98 | [Chart](https://www.tradingview.com/chart/?symbol=VNOM) | Viper Energy, Inc. Class A Common Stock | VNOM |
+| 16 | 93 | $10.37 | [Chart](https://www.tradingview.com/chart/?symbol=NMZ) | Nuveen Municipal High Income Opportunity Fund | NMZ |
+| 18 | 93 | $103.91 | [Chart](https://www.tradingview.com/chart/?symbol=DEO) | Diageo plc | DEO |
+| 20 | 93 | $30.50 | [Chart](https://www.tradingview.com/chart/?symbol=BAX) | Baxter International Inc. | BAX |
+| 10 | 92 | $38.53 | [Chart](https://www.tradingview.com/chart/?symbol=LKQ) | LKQ Corporation | LKQ |
+| 14 | 92 | $86.27 | [Chart](https://www.tradingview.com/chart/?symbol=TLT) | iShares 20+ Year Treasury Bond ETF | TLT |
+| 20 | 92 | $767.93 | [Chart](https://www.tradingview.com/chart/?symbol=LLY) | Eli Lilly & Co. | LLY |
+| 10 | 91 | $36.73 | [Chart](https://www.tradingview.com/chart/?symbol=PBA) | PEMBINA PIPELINE CORPORATION | PBA |
+| 12 | 91 | $104.92 | [Chart](https://www.tradingview.com/chart/?symbol=PDD) | PDD Holdings Inc. American Depositary Shares | PDD |
+| 13 | 91 | $12.70 | [Chart](https://www.tradingview.com/chart/?symbol=EWTX) | Edgewise Therapeutics, Inc. Common Stock | EWTX |
+| 14 | 91 | $288.84 | [Chart](https://www.tradingview.com/chart/?symbol=UTHR) | United Therapeutics Corp | UTHR |
+| 15 | 91 | $12.68 | [Chart](https://www.tradingview.com/chart/?symbol=PCN) | PIMCO Corporate & Income Strategy Fund | PCN |
+| 15 | 91 | $18.96 | [Chart](https://www.tradingview.com/chart/?symbol=MSDL) | Morgan Stanley Direct Lending Fund | MSDL |
+| 16 | 90 | $27.03 | [Chart](https://www.tradingview.com/chart/?symbol=VCYT) | Veracyte, Inc. | VCYT |
+| 14 | 89 | $41.09 | [Chart](https://www.tradingview.com/chart/?symbol=UDR) | UDR, Inc. | UDR |
+| 18 | 88 | $21.99 | [Chart](https://www.tradingview.com/chart/?symbol=SGRY) | Surgery Partners, Inc. Common Stock | SGRY |
+| 16 | 86 | $36.73 | [Chart](https://www.tradingview.com/chart/?symbol=OHI) | Omega Healthcare Investors Inc. | OHI |
+| 17 | 86 | $35.62 | [Chart](https://www.tradingview.com/chart/?symbol=AMH) | AMERICAN HOMES 4 RENT | AMH |
+| 17 | 86 | $32.45 | [Chart](https://www.tradingview.com/chart/?symbol=INVH) | Invitation Homes Inc. Common Stock | INVH |
+| 23 | 86 | $61.57 | [Chart](https://www.tradingview.com/chart/?symbol=UL) | Unilever plc | UL |
+| 28 | 85 | $28.05 | [Chart](https://www.tradingview.com/chart/?symbol=RNA) | Avidity Biosciences, Inc. Common Stock | RNA |
+| 20 | 84 | $30.62 | [Chart](https://www.tradingview.com/chart/?symbol=AXTA) | Axalta Coating Systems Ltd. | AXTA |
+| 21 | 84 | $35.20 | [Chart](https://www.tradingview.com/chart/?symbol=PECO) | Phillips Edison & Company, Inc. Common Stock | PECO |
+| 23 | 84 | $39.70 | [Chart](https://www.tradingview.com/chart/?symbol=TOTL) | SSgA Active ETF Trust SPDR DoubleLine Total Return Tactical ETF | TOTL |
+| 25 | 83 | $197.79 | [Chart](https://www.tradingview.com/chart/?symbol=RGA) | Reinsurance Group of America, Incorporated | RGA |
+| 28 | 82 | $22.84 | [Chart](https://www.tradingview.com/chart/?symbol=IBTG) | iShares iBonds Dec 2026 Term Treasury ETF | IBTG |
+| 24 | 79 | $69.68 | [Chart](https://www.tradingview.com/chart/?symbol=BRC) | Brady Corporation | BRC |
+| 25 | 78 | $21.70 | [Chart](https://www.tradingview.com/chart/?symbol=TUA) | Simplify Short Term Treasury Futures Strategy ETF | TUA |
+| 39 | 78 | $18.45 | [Chart](https://www.tradingview.com/chart/?symbol=S) | SentinelOne, Inc. | S |
+| 31 | 77 | $302.53 | [Chart](https://www.tradingview.com/chart/?symbol=ACN) | Accenture PLC | ACN |
+| 28 | 75 | $29.14 | [Chart](https://www.tradingview.com/chart/?symbol=SPTS) | SPDR Portfolio Short Term Treasury ETF | SPTS |
+| 33 | 75 | $56.64 | [Chart](https://www.tradingview.com/chart/?symbol=DAY) | Dayforce, Inc. | DAY |
+| 35 | 73 | $29.32 | [Chart](https://www.tradingview.com/chart/?symbol=CRNX) | Crinetics Pharmaceuticals, Inc. | CRNX |
+| 29 | 72 | $110.12 | [Chart](https://www.tradingview.com/chart/?symbol=SHV) | iShares Short Treasury Bond ETF | SHV |
+| 38 | 70 | $119.23 | [Chart](https://www.tradingview.com/chart/?symbol=ITGR) | Integer Holdings Corporation | ITGR |
+| 38 | 69 | $349.07 | [Chart](https://www.tradingview.com/chart/?symbol=SHW) | The Sherwin-Williams Company | SHW |
 
 ## **Methodology**
 
